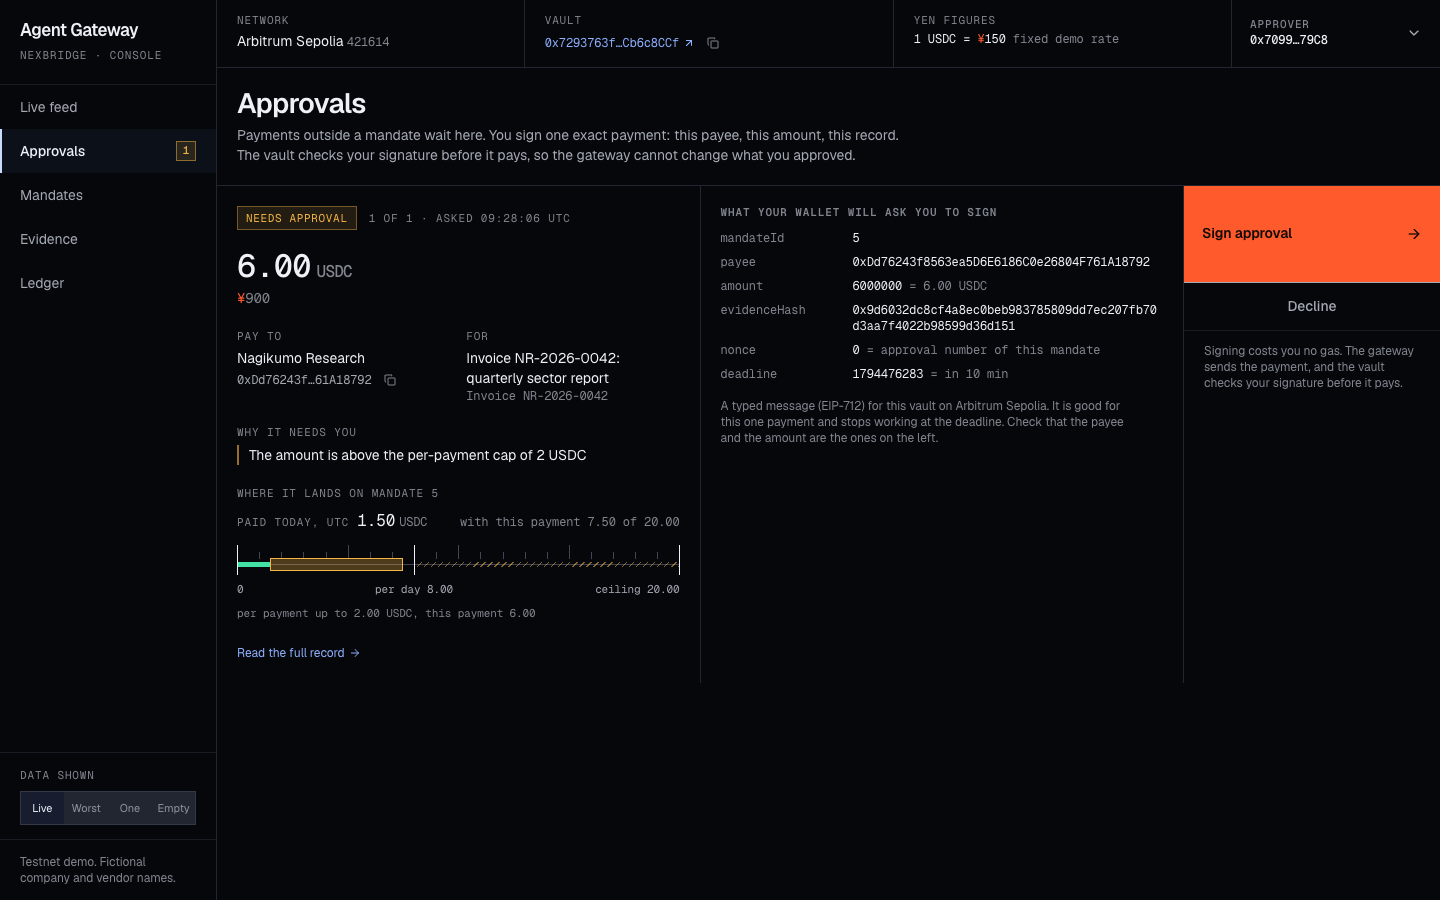
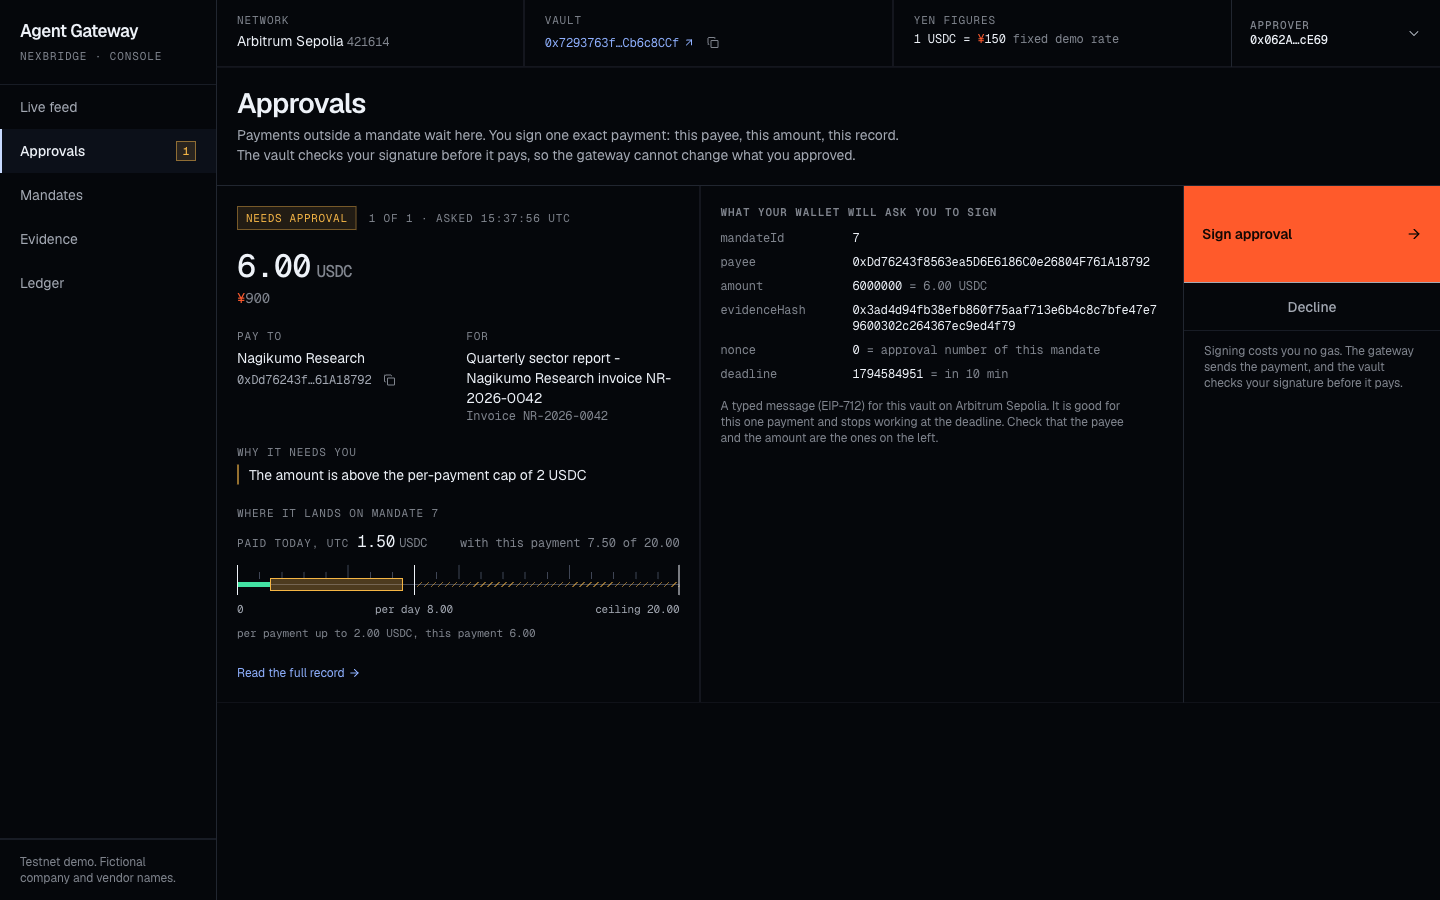
docs(console): five screenshots from the recorded run
Feed, approvals, mandates, evidence and ledger were taken during the recorded run of 13 November 2026, in the built console with the approver's wallet connected, at 1440 by 900. Every transaction in them can be looked up on Arbiscan.

The form for a new mandate stays as it was: it comes from a rehearsal on a local fork and shows no transaction. Its page says so, and that the mandates behind the form are the fork's.

diff --git a/docs/console/README.md b/docs/console/README.md
@@ -1,18 +1,21 @@
 # Console screenshots
 
-Taken at 1440 by 900 on 12 November 2026 from the console in [`apps/console`](../../apps/console/README.md).
-All company and vendor names are fictional.
+Taken at 1440 by 900 from the console in [`apps/console`](../../apps/console/README.md). All company and
+vendor names are fictional.
 
-Two of the pictures show the [recorded run](../sepolia-run/README.md) on Arbitrum Sepolia, and their
-transactions can be looked up on Arbiscan. The other four come from a rehearsal of the same demo on a local
-fork of Arbitrum Sepolia, where a test wallet signed in the console. The transactions in those four exist on
-that fork only and cannot be looked up.
+Five of the pictures were taken during the [recorded run](../sepolia-run/README.md) of 13 November 2026 on
+Arbitrum Sepolia, in the built console, with the approver's wallet connected. Every transaction in them
+can be looked up on Arbiscan.
+
+The sixth, the form for a new mandate, comes from a rehearsal of the same demo on a local fork of Arbitrum
+Sepolia on 12 November 2026, where a test wallet played the principal. It shows no transaction. The
+mandates behind the form are that fork's, not the testnet's.
 
 | Picture                              | What it shows                                                                                                                                                                                                                                                | Data                      |
 | ------------------------------------ | ------------------------------------------------------------------------------------------------------------------------------------------------------------------------------------------------------------------------------------------------------------ | ------------------------- |
-| [`feed.png`](feed.png)               | The live feed after the whole demo: three payments that ran on their own (two per-call purchases and a vendor invoice), one paid with an approval, the refused request from the planted note with its reason, and a refusal after the mandates were revoked. | Rehearsal on a local fork |
-| [`approvals.png`](approvals.png)     | A 6 USDC invoice waits for the approver. The screen shows the exact message the wallet will ask to sign and where the payment lands on the mandate. The approver's wallet is connected.                                                                      | Rehearsal on a local fork |
-| [`mandates.png`](mandates.png)       | The agent's two mandates read from the vault, after the approved payment: 7.50 of 8 USDC used on the vendor mandate, 0.10 of 1 USDC on the spend wallet's.                                                                                                   | Rehearsal on a local fork |
+| [`feed.png`](feed.png)               | The live feed after the whole demo: three payments that ran on their own (two per-call purchases and a vendor invoice), one paid with an approval, the refused request from the planted note with its reason, and a refusal after the mandates were revoked. | Recorded run on Sepolia   |
+| [`approvals.png`](approvals.png)     | A 6 USDC invoice waits for the approver. The screen shows the exact message the wallet will ask to sign and where the payment lands on the mandate. The approver's wallet is connected.                                                                      | Recorded run on Sepolia   |
+| [`mandates.png`](mandates.png)       | The agent's two mandates read from the vault, after the approved payment: 7.50 of 8 USDC used on the vendor mandate, 0.10 of 1 USDC on the spend wallet's.                                                                                                   | Recorded run on Sepolia   |
 | [`new-mandate.png`](new-mandate.png) | The form for a new mandate, with the principal's wallet connected.                                                                                                                                                                                           | Rehearsal on a local fork |
 | [`evidence.png`](evidence.png)       | The evidence of the approved 6 USDC payment, checked against the chain.                                                                                                                                                                                      | Recorded run on Sepolia   |
 | [`ledger.png`](ledger.png)           | The gateway's ledger of the recorded run, with its chain of hashes.                                                                                                                                                                                          | Recorded run on Sepolia   |
